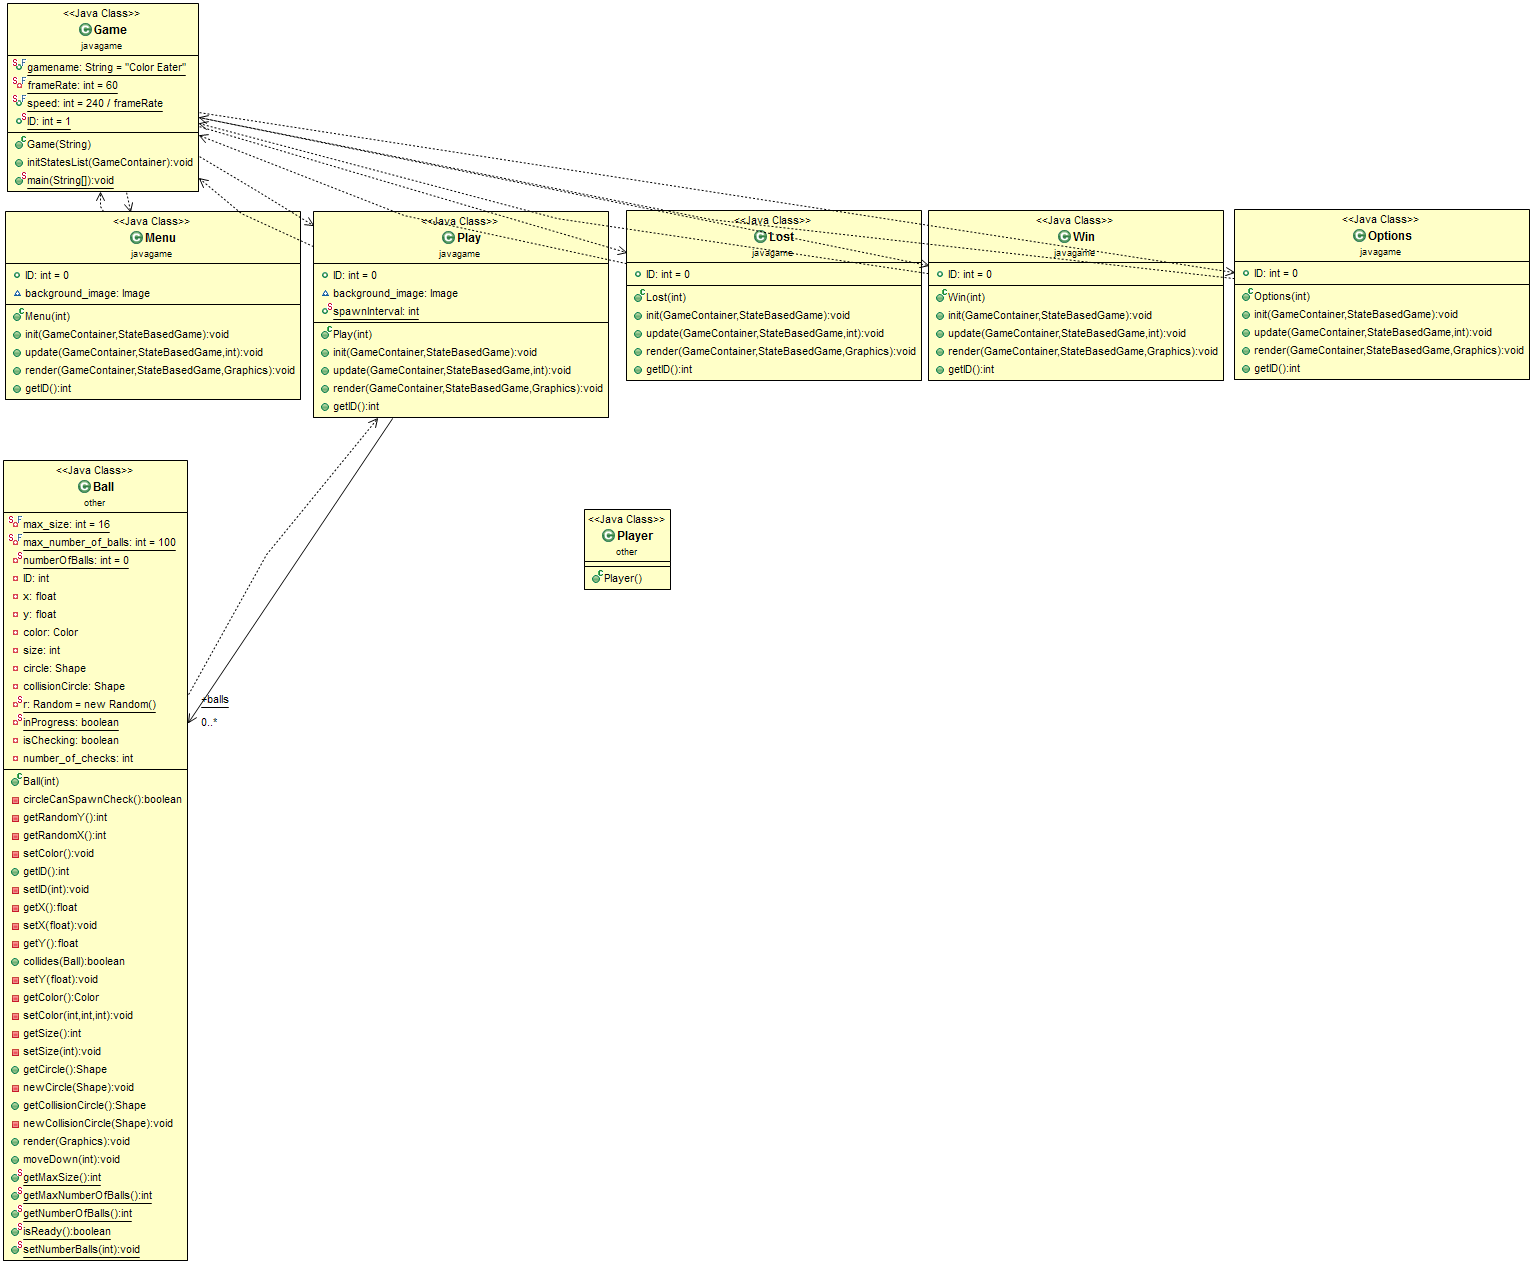
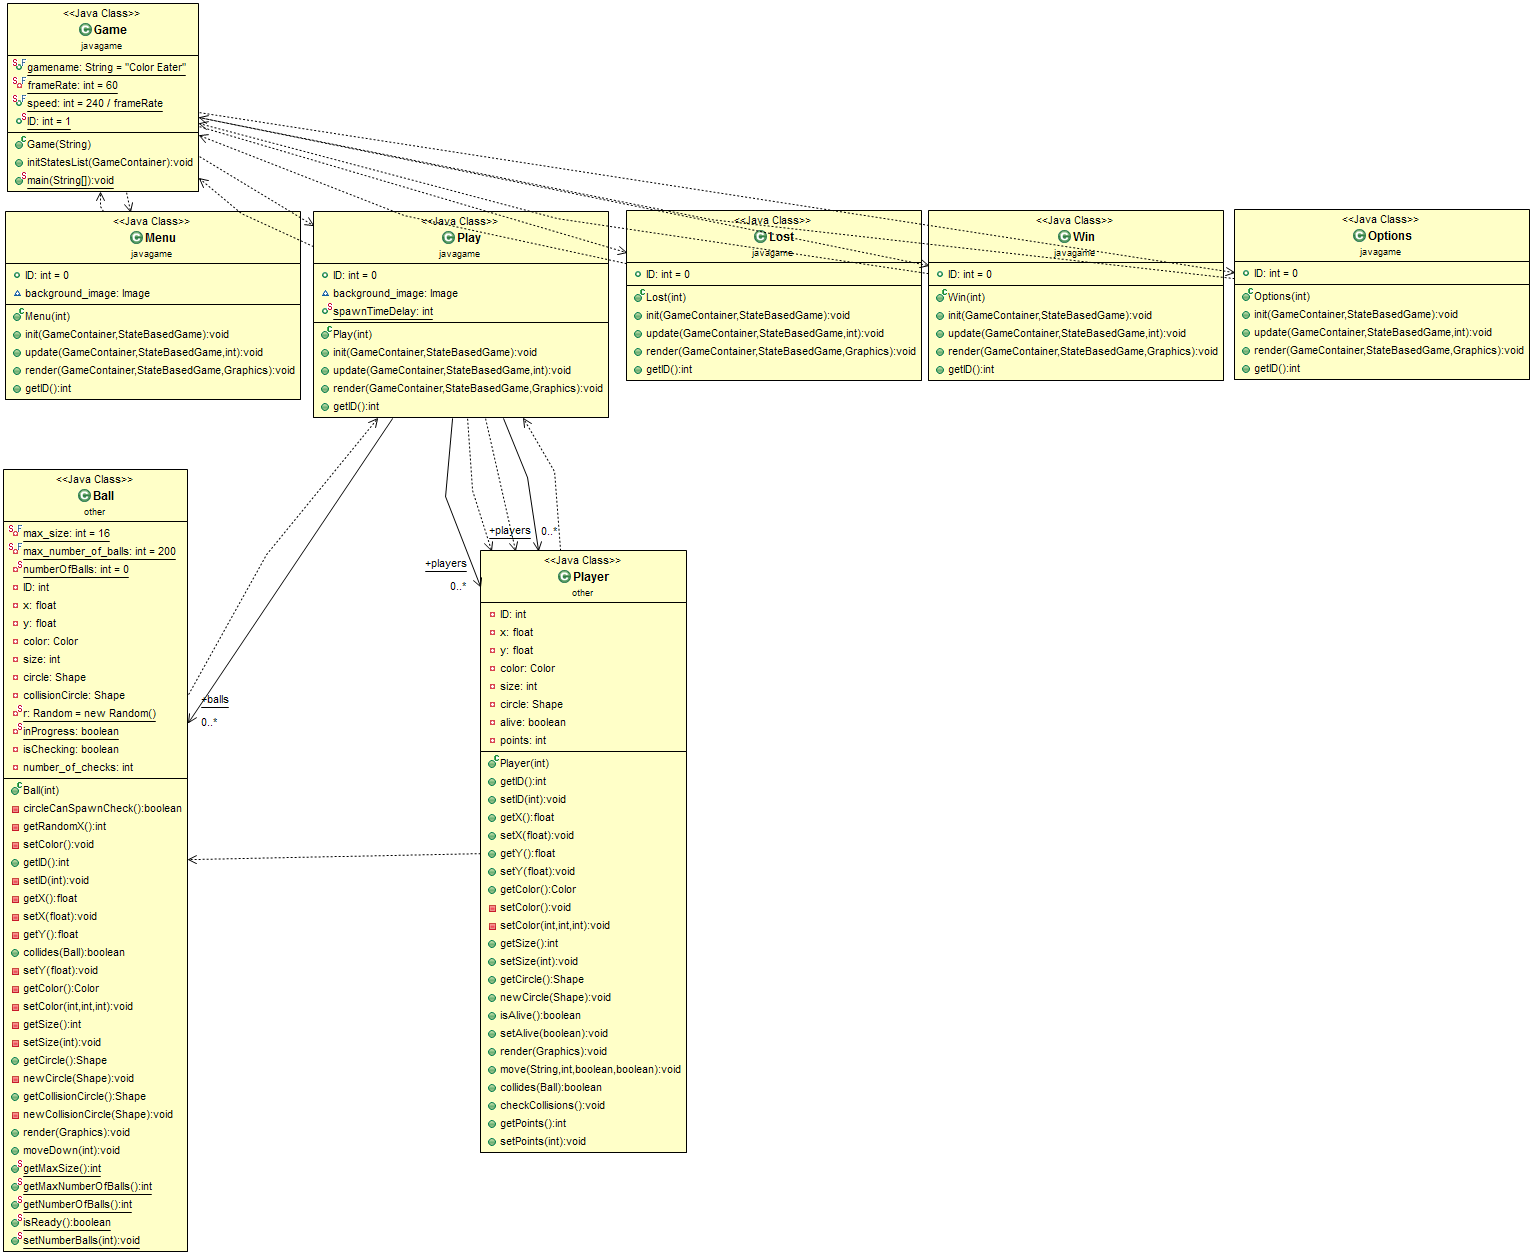
player level

diff --git a/src/other/Player.java b/src/other/Player.java
@@ -8,25 +8,29 @@ import org.newdawn.slick.geom.Shape;
 
 public class Player {
 	
-	private int		ID;
-	private float	x;
-	private float	y;
-	private Color	color;
-	private int		size;
-	private Shape	circle;
-	private boolean	alive;
-	private int		points;
+	private static int		pointsToNextLevel	= 1;
+	private static float	speed				= .1f;
+	private static float	speedModifier		= .05f;
+	private int				ID;
+	private float			x;
+	private float			y;
+	private Color			color;
+	private int				size;
+	private int				level;
+	private Shape			circle;
+	private boolean			alive;
+	private int				points;
 	
 	public Player(int ID) {
 		this.setAlive(true);
 		// ID
 		this.setID(ID);
 		// SIZE
-		this.setSize(1);
+		this.setLevel(1);
 		// COLOR
-		this.setColor();
+		this.changeColor();
 		// SIZE IN PX
-		this.setSize(this.getSize() + (3 * (3 + this.getSize())));
+		this.setSize(this.getLevel() + (3 * (3 + this.getLevel())));
 		// POSITION
 		this.setX(500);
 		//this.setY(getRandomY());
@@ -63,8 +67,8 @@ public class Player {
 		return color;
 	}
 	
-	private void setColor() {
-		switch (this.getSize() - 1) {
+	private void changeColor() {
+		switch (this.getLevel() - 1) {
 			case 0:
 				this.setColor(255, 0, 0);
 				break;
@@ -155,12 +159,12 @@ public class Player {
 	}
 	
 	public void move(String direction, int delta, boolean slow, boolean fast) {
-		float speed = 0.10f;
+		float speed = Player.speed;
 		if (slow) {
-			speed = 0.05f;
+			speed -= Player.speedModifier;
 		}
 		else if (fast) {
-			speed += 0.15f;
+			speed += Player.speedModifier;
 		}
 		switch (direction) {
 			case "right":
@@ -199,13 +203,35 @@ public class Player {
 	}
 	
 	public void checkCollisions() {
-		for (int i = 0; i < javagame.Play.balls.size(); i++) {
-			Ball ball = javagame.Play.balls.get(i);
+		for (int ID = 0; ID < javagame.Play.balls.size(); ID++) {
+			Ball ball = javagame.Play.balls.get(ID);
 			if (ball.getCircle() != null) {
 				if (this.collides(ball)) {
-					// TODO check for size than destroy
-					// TODO particle effect on getCenterPos
-					javagame.Play.balls.remove(i);
+					if (this.getLevel() == ball.getLevel()) {
+						javagame.Play.balls.remove(ID);
+						// ADD POINTS
+						points++;
+						System.out.println("Level: " + this.getLevel() + "       Points: " + this.getPoints());
+						if (this.getPoints() % Player.pointsToNextLevel == 0) {
+							// INCREASE LEVEL
+							this.setLevel(this.getLevel() + 1);
+							// COLOR
+							this.changeColor();
+							// SIZE IN PX
+							this.setSize(this.getLevel() + (3 * (3 + this.getLevel())));
+							// CREATE  CIRCLE
+							this.newCircle(new Circle(this.getCircle().getCenterX(), this.getCircle().getCenterY(), this.getSize() / 2));
+						}
+					}
+					else if (this.getLevel() > ball.getLevel()) {
+						// DESTROY
+						javagame.Play.balls.remove(ID);
+						// TODO particle effect on getCenterPos
+					}
+					else if (this.getLevel() < ball.getLevel()) {
+						// DEATH
+						javagame.Play.balls.remove(ID);
+					}
 				}
 			}
 		}
@@ -217,5 +243,13 @@ public class Player {
 	
 	public void setPoints(int points) {
 		this.points = points;
+	}
+	
+	public int getLevel() {
+		return level;
+	}
+	
+	public void setLevel(int level) {
+		this.level = level;
 	}
 }

diff --git a/src/other/Ball.java b/src/other/Ball.java
@@ -10,16 +10,17 @@ import org.newdawn.slick.geom.Shape;
 public class Ball {
 	
 	private static final int	max_size			= 16;
-	private static final int	max_number_of_balls	= 100;
+	private static final int	max_number_of_balls	= 200;
 	private static int			numberOfBalls		= 0;
+	private static Random		r					= new Random();
 	private int					ID;
 	private float				x;
 	private float				y;
 	private Color				color;
 	private int					size;
+	private int					level;
 	private Shape				circle;
 	private Shape				collisionCircle;
-	private static Random		r					= new Random();
 	private static boolean		inProgress;
 	private boolean				isChecking;
 	private int					number_of_checks;
@@ -98,7 +99,7 @@ public class Ball {
 				// IF NO COLLISION DETECTED SPAWN CIRCLE
 				inProgress = false;
 				isChecking = false;
-				javagame.Play.spawnTimeDelay = 10;   
+				javagame.Play.spawnTimeDelay = 10;
 				if (number_of_checks > 0) {
 					//System.out.println("Number of balls: " + numberOfBalls + "    Number of spawn checks: " + number_of_checks);
 				}
@@ -114,11 +115,11 @@ public class Ball {
 	
 	private boolean circleCanSpawnCheck() {
 		// SIZE
-		this.setSize(r.nextInt(Ball.getMaxSize()) + 1);
+		this.setLevel(r.nextInt(Ball.getMaxSize()) + 1);
 		// COLOR
 		this.setColor();
 		// SIZE IN PX
-		this.setSize(this.getSize() + (3 * (3 + this.getSize())));
+		this.setSize(this.getLevel() + (3 * (3 + this.getLevel())));
 		// POSITION
 		this.setX(this.getRandomX());
 		//this.setY(getRandomY());
@@ -143,15 +144,15 @@ public class Ball {
 	/*private int getRandomY() {
 		return r.nextInt(576 - this.getSize());
 	}*/
-	
 	private int getRandomX() {
 		/*this.getSize() / 2 +*/
 		/*- (this.getSize() / 2)*/
+		
 		return r.nextInt(1024 - this.getSize());
 	}
 	
 	private void setColor() {
-		switch (this.getSize() - 1) {
+		switch (this.getLevel() - 1) {
 			case 0:
 				this.setColor(255, 0, 0);
 				break;
@@ -323,5 +324,13 @@ public class Ball {
 	
 	public static void setNumberBalls(int i) {
 		Ball.numberOfBalls = i;
+	}
+
+	public int getLevel() {
+		return level;
+	}
+
+	public void setLevel(int level) {
+		this.level = level;
 	}
 }

diff --git a/src/javagame/Play.java b/src/javagame/Play.java
@@ -72,7 +72,7 @@ public class Play extends BasicGameState {
 				}
 				if (balls.size() < Ball.getMaxNumberOfBalls()) {
 					balls.add(new Ball(balls.size()));
-					System.out.println("Number of balls: " + balls.size());
+					//System.out.println("Number of balls: " + balls.size());
 				}
 			}
 			for (Ball ball : balls) {
@@ -116,7 +116,7 @@ public class Play extends BasicGameState {
 		background_image.draw(0, 0);
 		//////////////////////////////////////////////////////////////////
 		g.setColor(Color.black);
-		g.drawString("ID: " + this.getID(), 20, 20);
+		g.drawString("ID: " + this.getID(), 10, 25);
 		//////////////////////////////////////////////////////////////////
 		if (balls.size() > 0) {
 			for (Ball ball : balls) {
